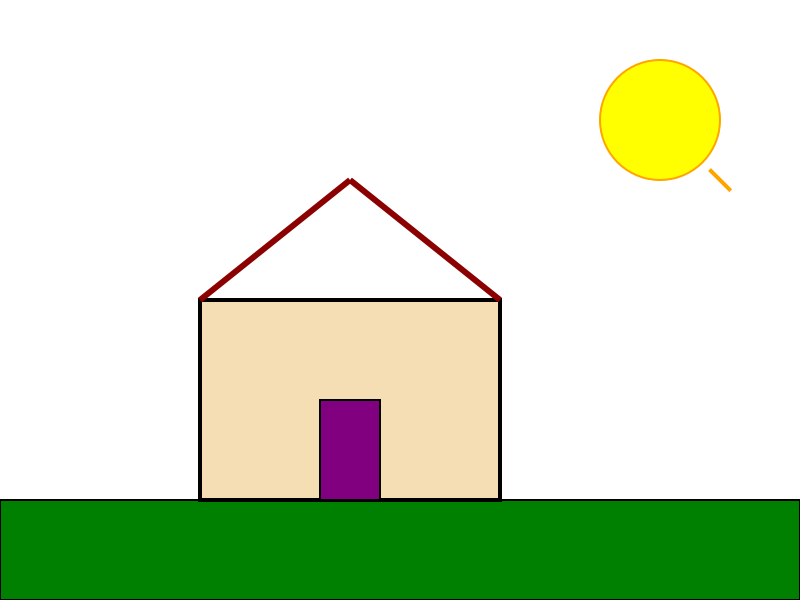
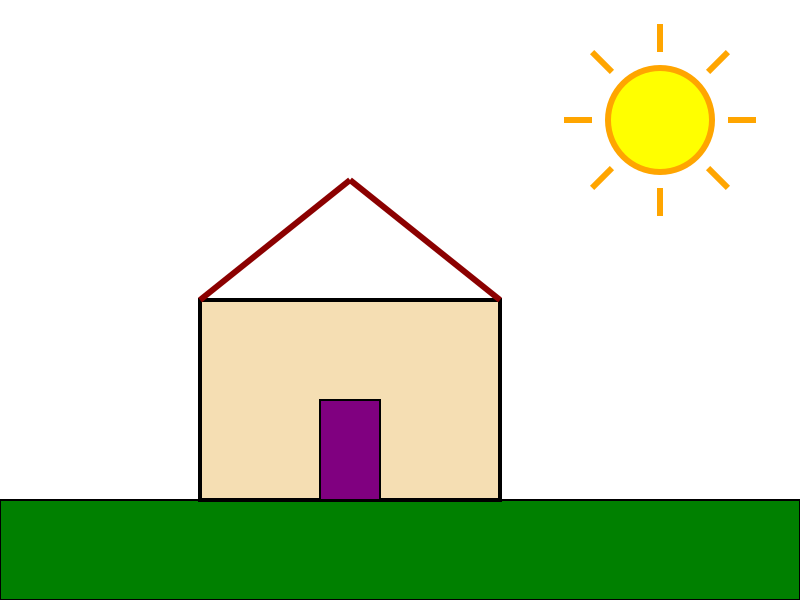
Atualiza caso de teste V1 e especificação da Linguagem de Desenho.

Changed region(s): [[0.6875, 0.03, 0.9375, 0.36], [0.7188, 0.3, 0.75, 0.33]]

diff --git a/casos.js b/casos.js
@@ -25,11 +25,16 @@ retangulo(100, 150, 150, 100) preenchimento: #F5DEB3 traco: preto espessura: 2
 reta(100, 150, 175, 90) traco: #8B0000 espessura: 3          // telhado
 reta(175, 90, 250, 150) traco: #8B0000 espessura: 3
 retangulo(160, 200, 30, 50) preenchimento: roxo              // porta
-grupo mover(330, 60) {                                       // sol
-    circulo(0, 0, 30) preenchimento: amarelo traco: laranja
-    grupo girar(45) {
-        reta(35, 0, 50, 0) traco: laranja espessura: 2       // um raio
-    }
+grupo mover(330, 60) {
+    circulo(0, 0, 26) preenchimento: amarelo traco: laranja espessura: 3
+    grupo girar(0)   { reta(34, 0, 48, 0) traco: laranja espessura: 3 }
+    grupo girar(45)  { reta(34, 0, 48, 0) traco: laranja espessura: 3 }
+    grupo girar(90)  { reta(34, 0, 48, 0) traco: laranja espessura: 3 }
+    grupo girar(135) { reta(34, 0, 48, 0) traco: laranja espessura: 3 }
+    grupo girar(180) { reta(34, 0, 48, 0) traco: laranja espessura: 3 }
+    grupo girar(225) { reta(34, 0, 48, 0) traco: laranja espessura: 3 }
+    grupo girar(270) { reta(34, 0, 48, 0) traco: laranja espessura: 3 }
+    grupo girar(315) { reta(34, 0, 48, 0) traco: laranja espessura: 3 }
 }`,
         esperado: {
             ast: {
@@ -50,16 +55,32 @@ grupo mover(330, 60) {                                       // sol
                         tipo: "Grupo", linha: 8,
                         modificadores: [{ tipo: "Deslocamento", linha: 8, dx: 330, dy: 60 }],
                         itens: [
-                            { tipo: "Circulo", linha: 9, cx: 0, cy: 0, raio: 30,
-                              estilo: estilo({ traco: "laranja", preenchimento: "amarelo" }) },
-                            {
-                                tipo: "Grupo", linha: 10,
-                                modificadores: [{ tipo: "Rotacao", linha: 10, angulo: 45 }],
-                                itens: [
-                                    { tipo: "Reta", linha: 11, x1: 35, y1: 0, x2: 50, y2: 0,
-                                      estilo: estilo({ traco: "laranja", espessura: 2 }) },
-                                ],
-                            },
+                            { tipo: "Circulo", linha: 9, cx: 0, cy: 0, raio: 26,
+                              estilo: estilo({ traco: "laranja", preenchimento: "amarelo", espessura: 3 }) },
+                            { tipo: "Grupo", linha: 10, modificadores: [{ tipo: "Rotacao", linha: 10, angulo: 0 }],
+                              itens: [{ tipo: "Reta", linha: 10, x1: 34, y1: 0, x2: 48, y2: 0,
+                                        estilo: estilo({ traco: "laranja", espessura: 3 }) }] },
+                            { tipo: "Grupo", linha: 11, modificadores: [{ tipo: "Rotacao", linha: 11, angulo: 45 }],
+                              itens: [{ tipo: "Reta", linha: 11, x1: 34, y1: 0, x2: 48, y2: 0,
+                                        estilo: estilo({ traco: "laranja", espessura: 3 }) }] },
+                            { tipo: "Grupo", linha: 12, modificadores: [{ tipo: "Rotacao", linha: 12, angulo: 90 }],
+                              itens: [{ tipo: "Reta", linha: 12, x1: 34, y1: 0, x2: 48, y2: 0,
+                                        estilo: estilo({ traco: "laranja", espessura: 3 }) }] },
+                            { tipo: "Grupo", linha: 13, modificadores: [{ tipo: "Rotacao", linha: 13, angulo: 135 }],
+                              itens: [{ tipo: "Reta", linha: 13, x1: 34, y1: 0, x2: 48, y2: 0,
+                                        estilo: estilo({ traco: "laranja", espessura: 3 }) }] },
+                            { tipo: "Grupo", linha: 14, modificadores: [{ tipo: "Rotacao", linha: 14, angulo: 180 }],
+                              itens: [{ tipo: "Reta", linha: 14, x1: 34, y1: 0, x2: 48, y2: 0,
+                                        estilo: estilo({ traco: "laranja", espessura: 3 }) }] },
+                            { tipo: "Grupo", linha: 15, modificadores: [{ tipo: "Rotacao", linha: 15, angulo: 225 }],
+                              itens: [{ tipo: "Reta", linha: 15, x1: 34, y1: 0, x2: 48, y2: 0,
+                                        estilo: estilo({ traco: "laranja", espessura: 3 }) }] },
+                            { tipo: "Grupo", linha: 16, modificadores: [{ tipo: "Rotacao", linha: 16, angulo: 270 }],
+                              itens: [{ tipo: "Reta", linha: 16, x1: 34, y1: 0, x2: 48, y2: 0,
+                                        estilo: estilo({ traco: "laranja", espessura: 3 }) }] },
+                            { tipo: "Grupo", linha: 17, modificadores: [{ tipo: "Rotacao", linha: 17, angulo: 315 }],
+                              itens: [{ tipo: "Reta", linha: 17, x1: 34, y1: 0, x2: 48, y2: 0,
+                                        estilo: estilo({ traco: "laranja", espessura: 3 }) }] },
                         ],
                     },
                 ],

diff --git a/docs/casos-de-teste.md b/docs/casos-de-teste.md
@@ -57,11 +57,16 @@ retangulo(100, 150, 150, 100) preenchimento: #F5DEB3 traco: preto espessura: 2
 reta(100, 150, 175, 90) traco: #8B0000 espessura: 3          // telhado
 reta(175, 90, 250, 150) traco: #8B0000 espessura: 3
 retangulo(160, 200, 30, 50) preenchimento: roxo              // porta
-grupo mover(330, 60) {                                       // sol
-    circulo(0, 0, 30) preenchimento: amarelo traco: laranja
-    grupo girar(45) {
-        reta(35, 0, 50, 0) traco: laranja espessura: 2       // um raio
-    }
+grupo mover(330, 60) {
+    circulo(0, 0, 26) preenchimento: amarelo traco: laranja espessura: 3
+    grupo girar(0)   { reta(34, 0, 48, 0) traco: laranja espessura: 3 }
+    grupo girar(45)  { reta(34, 0, 48, 0) traco: laranja espessura: 3 }
+    grupo girar(90)  { reta(34, 0, 48, 0) traco: laranja espessura: 3 }
+    grupo girar(135) { reta(34, 0, 48, 0) traco: laranja espessura: 3 }
+    grupo girar(180) { reta(34, 0, 48, 0) traco: laranja espessura: 3 }
+    grupo girar(225) { reta(34, 0, 48, 0) traco: laranja espessura: 3 }
+    grupo girar(270) { reta(34, 0, 48, 0) traco: laranja espessura: 3 }
+    grupo girar(315) { reta(34, 0, 48, 0) traco: laranja espessura: 3 }
 }
 ```
 
@@ -97,19 +102,33 @@ grupo mover(330, 60) {                                       // sol
       "modificadores": [ { "tipo": "Deslocamento", "dx": 330, "dy": 60 } ],
       "itens": [
         {
-          "tipo": "Circulo", "cx": 0, "cy": 0, "raio": 30,
-          "estilo": { "traco": "laranja", "preenchimento": "amarelo", "espessura": null }
+          "tipo": "Circulo", "cx": 0, "cy": 0, "raio": 26,
+          "estilo": { "traco": "laranja", "preenchimento": "amarelo", "espessura": 3 }
         },
-        {
-          "tipo": "Grupo",
-          "modificadores": [ { "tipo": "Rotacao", "angulo": 45 } ],
-          "itens": [
-            {
-              "tipo": "Reta", "x1": 35, "y1": 0, "x2": 50, "y2": 0,
-              "estilo": { "traco": "laranja", "preenchimento": null, "espessura": 2 }
-            }
-          ]
-        }
+        { "tipo": "Grupo", "modificadores": [ { "tipo": "Rotacao", "angulo": 0 } ],
+          "itens": [ { "tipo": "Reta", "x1": 34, "y1": 0, "x2": 48, "y2": 0,
+                       "estilo": { "traco": "laranja", "preenchimento": null, "espessura": 3 } } ] },
+        { "tipo": "Grupo", "modificadores": [ { "tipo": "Rotacao", "angulo": 45 } ],
+          "itens": [ { "tipo": "Reta", "x1": 34, "y1": 0, "x2": 48, "y2": 0,
+                       "estilo": { "traco": "laranja", "preenchimento": null, "espessura": 3 } } ] },
+        { "tipo": "Grupo", "modificadores": [ { "tipo": "Rotacao", "angulo": 90 } ],
+          "itens": [ { "tipo": "Reta", "x1": 34, "y1": 0, "x2": 48, "y2": 0,
+                       "estilo": { "traco": "laranja", "preenchimento": null, "espessura": 3 } } ] },
+        { "tipo": "Grupo", "modificadores": [ { "tipo": "Rotacao", "angulo": 135 } ],
+          "itens": [ { "tipo": "Reta", "x1": 34, "y1": 0, "x2": 48, "y2": 0,
+                       "estilo": { "traco": "laranja", "preenchimento": null, "espessura": 3 } } ] },
+        { "tipo": "Grupo", "modificadores": [ { "tipo": "Rotacao", "angulo": 180 } ],
+          "itens": [ { "tipo": "Reta", "x1": 34, "y1": 0, "x2": 48, "y2": 0,
+                       "estilo": { "traco": "laranja", "preenchimento": null, "espessura": 3 } } ] },
+        { "tipo": "Grupo", "modificadores": [ { "tipo": "Rotacao", "angulo": 225 } ],
+          "itens": [ { "tipo": "Reta", "x1": 34, "y1": 0, "x2": 48, "y2": 0,
+                       "estilo": { "traco": "laranja", "preenchimento": null, "espessura": 3 } } ] },
+        { "tipo": "Grupo", "modificadores": [ { "tipo": "Rotacao", "angulo": 270 } ],
+          "itens": [ { "tipo": "Reta", "x1": 34, "y1": 0, "x2": 48, "y2": 0,
+                       "estilo": { "traco": "laranja", "preenchimento": null, "espessura": 3 } } ] },
+        { "tipo": "Grupo", "modificadores": [ { "tipo": "Rotacao", "angulo": 315 } ],
+          "itens": [ { "tipo": "Reta", "x1": 34, "y1": 0, "x2": 48, "y2": 0,
+                       "estilo": { "traco": "laranja", "preenchimento": null, "espessura": 3 } } ] }
       ]
     }
   ]

diff --git a/docs/testes-fase2.md b/docs/testes-fase2.md
@@ -43,11 +43,16 @@ retangulo(100, 150, 150, 100) preenchimento: #F5DEB3 traco: preto espessura: 2
 reta(100, 150, 175, 90) traco: #8B0000 espessura: 3          // telhado
 reta(175, 90, 250, 150) traco: #8B0000 espessura: 3
 retangulo(160, 200, 30, 50) preenchimento: roxo              // porta
-grupo mover(330, 60) {                                       // sol
-    circulo(0, 0, 30) preenchimento: amarelo traco: laranja
-    grupo girar(45) {
-        reta(35, 0, 50, 0) traco: laranja espessura: 2       // um raio
-    }
+grupo mover(330, 60) {
+    circulo(0, 0, 26) preenchimento: amarelo traco: laranja espessura: 3
+    grupo girar(0)   { reta(34, 0, 48, 0) traco: laranja espessura: 3 }
+    grupo girar(45)  { reta(34, 0, 48, 0) traco: laranja espessura: 3 }
+    grupo girar(90)  { reta(34, 0, 48, 0) traco: laranja espessura: 3 }
+    grupo girar(135) { reta(34, 0, 48, 0) traco: laranja espessura: 3 }
+    grupo girar(180) { reta(34, 0, 48, 0) traco: laranja espessura: 3 }
+    grupo girar(225) { reta(34, 0, 48, 0) traco: laranja espessura: 3 }
+    grupo girar(270) { reta(34, 0, 48, 0) traco: laranja espessura: 3 }
+    grupo girar(315) { reta(34, 0, 48, 0) traco: laranja espessura: 3 }
 }
 ```
 
@@ -61,9 +66,30 @@ grupo mover(330, 60) {                                       // sol
   <line x1="175" y1="90" x2="250" y2="150" fill="none" stroke="#8B0000" stroke-width="3"/>
   <rect x="160" y="200" width="30" height="50" fill="purple" stroke="black" stroke-width="1"/>
   <g transform="translate(330 60)">
-    <circle cx="0" cy="0" r="30" fill="yellow" stroke="orange" stroke-width="1"/>
+    <circle cx="0" cy="0" r="26" fill="yellow" stroke="orange" stroke-width="3"/>
+    <g transform="rotate(0)">
+      <line x1="34" y1="0" x2="48" y2="0" fill="none" stroke="orange" stroke-width="3"/>
+    </g>
     <g transform="rotate(45)">
-      <line x1="35" y1="0" x2="50" y2="0" fill="none" stroke="orange" stroke-width="2"/>
+      <line x1="34" y1="0" x2="48" y2="0" fill="none" stroke="orange" stroke-width="3"/>
+    </g>
+    <g transform="rotate(90)">
+      <line x1="34" y1="0" x2="48" y2="0" fill="none" stroke="orange" stroke-width="3"/>
+    </g>
+    <g transform="rotate(135)">
+      <line x1="34" y1="0" x2="48" y2="0" fill="none" stroke="orange" stroke-width="3"/>
+    </g>
+    <g transform="rotate(180)">
+      <line x1="34" y1="0" x2="48" y2="0" fill="none" stroke="orange" stroke-width="3"/>
+    </g>
+    <g transform="rotate(225)">
+      <line x1="34" y1="0" x2="48" y2="0" fill="none" stroke="orange" stroke-width="3"/>
+    </g>
+    <g transform="rotate(270)">
+      <line x1="34" y1="0" x2="48" y2="0" fill="none" stroke="orange" stroke-width="3"/>
+    </g>
+    <g transform="rotate(315)">
+      <line x1="34" y1="0" x2="48" y2="0" fill="none" stroke="orange" stroke-width="3"/>
     </g>
   </g>
 </svg>

diff --git a/docs/especificacao.md b/docs/especificacao.md
@@ -67,11 +67,16 @@ retangulo(100, 150, 150, 100) preenchimento: #F5DEB3 traco: preto espessura: 2
 reta(100, 150, 175, 90) traco: #8B0000 espessura: 3          // telhado
 reta(175, 90, 250, 150) traco: #8B0000 espessura: 3
 retangulo(160, 200, 30, 50) preenchimento: roxo              // porta
-grupo mover(330, 60) {                                       // sol
-    circulo(0, 0, 30) preenchimento: amarelo traco: laranja
-    grupo girar(45) {
-        reta(35, 0, 50, 0) traco: laranja espessura: 2       // um raio
-    }
+grupo mover(330, 60) {
+    circulo(0, 0, 26) preenchimento: amarelo traco: laranja espessura: 3
+    grupo girar(0)   { reta(34, 0, 48, 0) traco: laranja espessura: 3 }
+    grupo girar(45)  { reta(34, 0, 48, 0) traco: laranja espessura: 3 }
+    grupo girar(90)  { reta(34, 0, 48, 0) traco: laranja espessura: 3 }
+    grupo girar(135) { reta(34, 0, 48, 0) traco: laranja espessura: 3 }
+    grupo girar(180) { reta(34, 0, 48, 0) traco: laranja espessura: 3 }
+    grupo girar(225) { reta(34, 0, 48, 0) traco: laranja espessura: 3 }
+    grupo girar(270) { reta(34, 0, 48, 0) traco: laranja espessura: 3 }
+    grupo girar(315) { reta(34, 0, 48, 0) traco: laranja espessura: 3 }
 }
 ```
 
